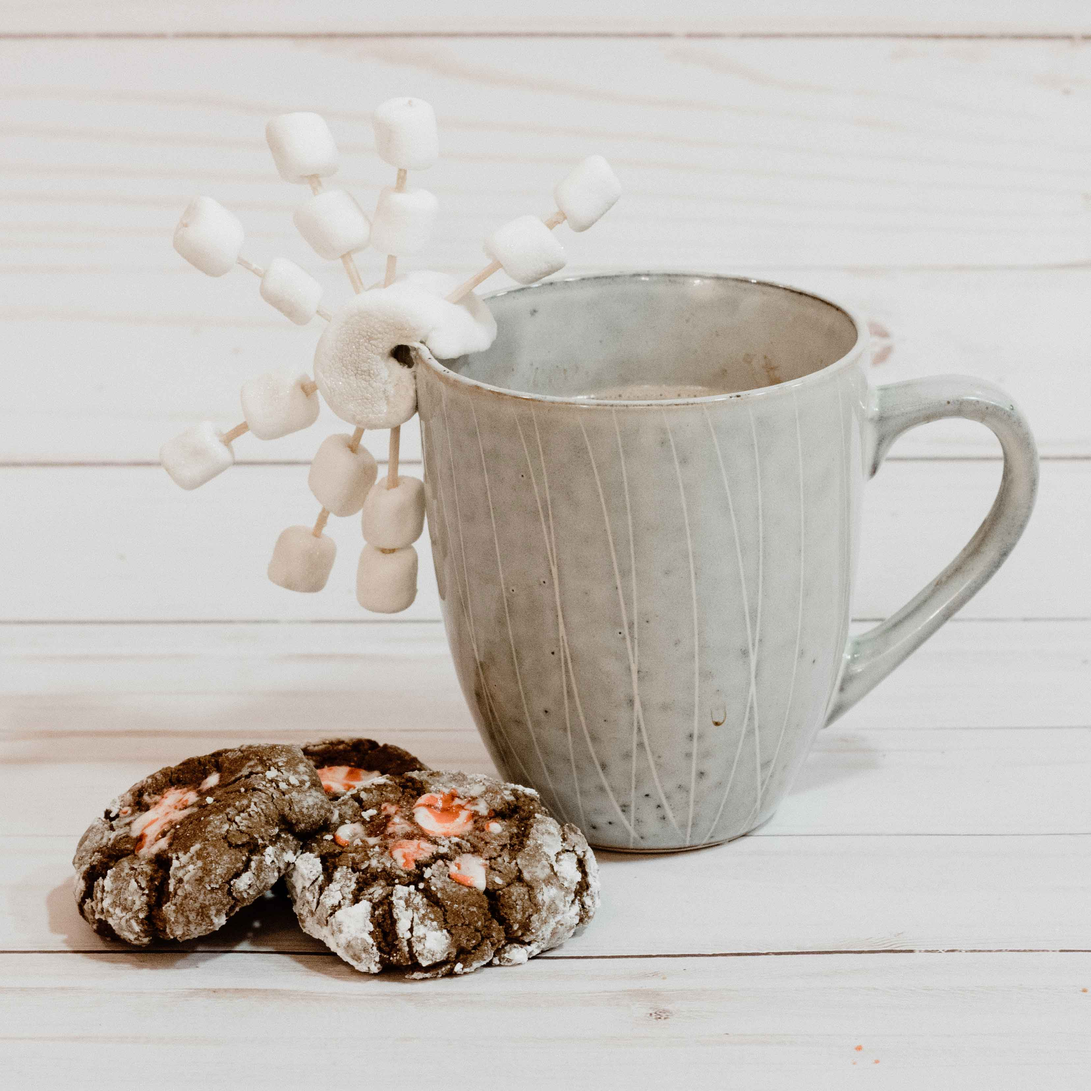
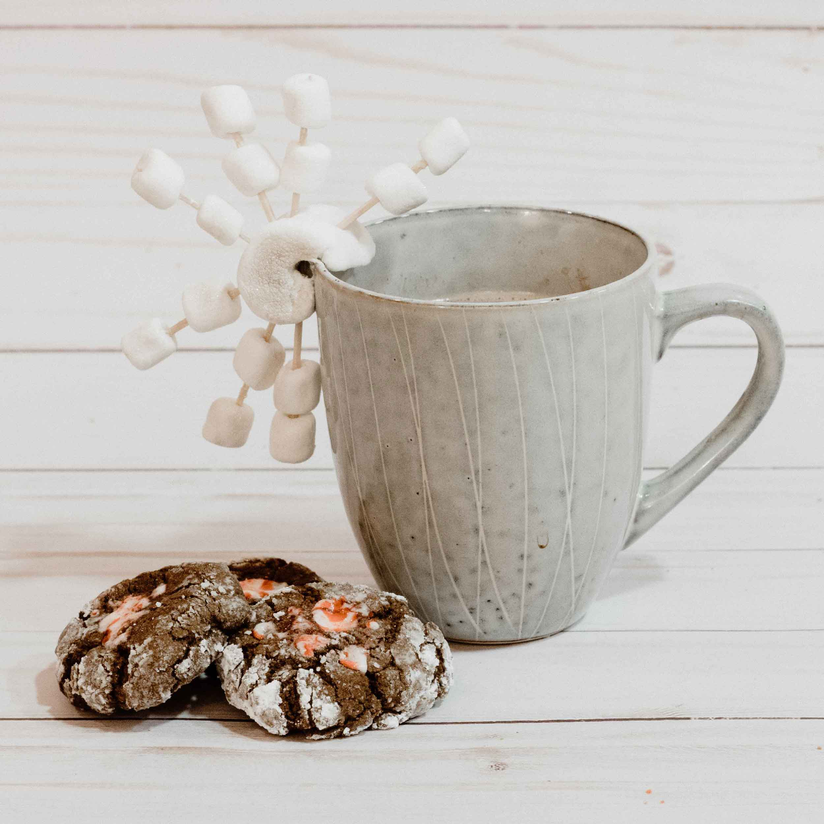
Fix image sizes

Changed region(s): [[0.0936, 0.6864, 0.4992, 0.9048], [0.4056, 0.7488, 0.4992, 0.8112], [0.0936, 0.7488, 0.1248, 0.78]]

diff --git a/index.html b/index.html
@@ -67,7 +67,7 @@
       </nav>
     </div>
   </header>
-  <main role="main" id="nav">
+  <main role="main" id="main">
     <div class="wrapper main-gutter-big main-gutter">
       <div class="grid push-2">
         <div class="unit xs-1 m-1-2 main-gutter-left main-gutter">
